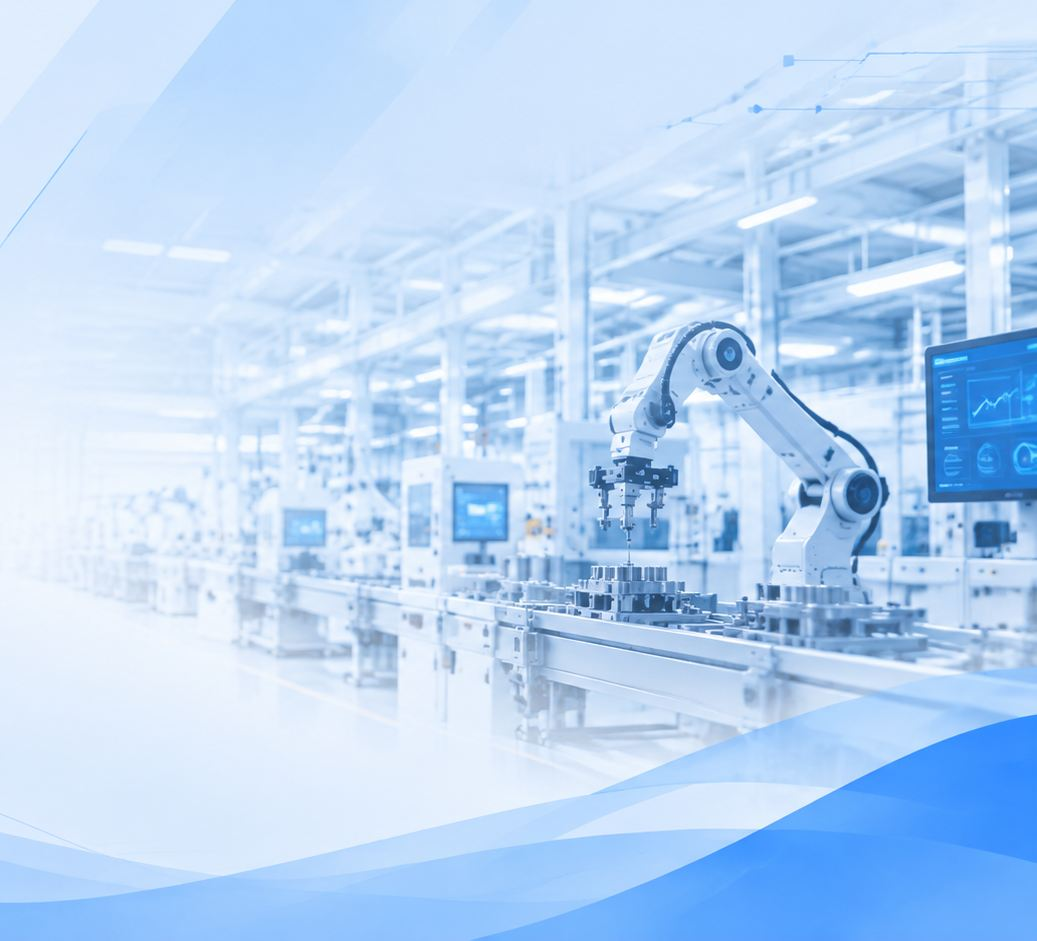
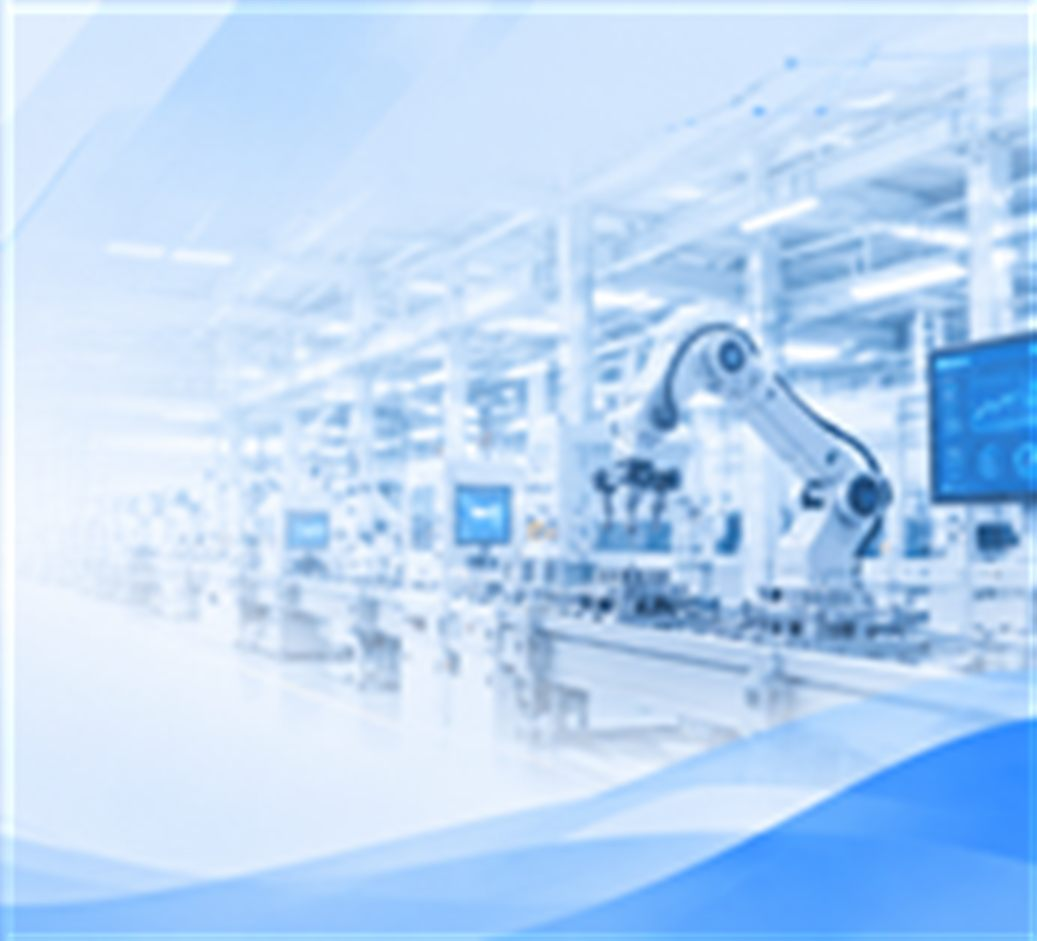
fix: restore page background — bake blur into asset instead of a negative-z pseudo layer
上一版把整页背景搞没了。原因不是遮罩或图片，是层叠写法错了。

## 根因：body::before + z-index:-1 被 body 自身背景盖掉

上一版把背景放在 `body::before`（position: fixed; z-index: -1），
同时 body 还有不透明的 `background-color: var(--board)`。

按 CSS 2.1 附录 E 的绘制顺序，根堆叠上下文内：
1. 根元素的背景
2. **负 z-index 的子堆叠上下文**（body::before 在这里）
3. 常规流内非定位块级元素的背景（**body 自己的 background-color 在这里**）

也就是说 body 的背景色画在 body::before **之后**，直接把它整层盖住 →
用户看到的就是"背景没了"。

## 修法

1. 去掉 `body::before` 整套写法，背景回到 `body` 的 `background-image`
   （这个写法之前已验证能正常显示），浅色薄纱 + 图片两层，`background-attachment: fixed`
2. 模糊不再依赖 CSS `filter`，改为**烘焙进图片**：
   生成素材时先缩到 1/6 再用 HighQualityBicubic 放大回来，
   等效高斯模糊；这样既保留了柔和氛围，又没有 filter/transform 带来的
   包含块与层叠副作用
3. 素材仍是裁掉左侧 38% 的版本（无 SmartMES 标识与标语），1037×941
   JPEG q82，64.5 KB（比上一版 78.9 KB 更小）
4. 移动端（≤820px）`background-attachment` 退回 `scroll`

## 验证

- 精确检查：`body::before` 选择器 0 处、`filter: blur` 声明 0 处
  （`backdrop-filter` 属顶栏毛玻璃，保留）
- body 最终规则确认为「薄纱渐变 + app-bg.jpg + fixed」
- styles.css 花括号平衡 1288/1288
- 资源核对 app-bg.jpg 1037×941 / 64.5 KB
- 六套断言 419 项全部通过，无回归
- docs/11 记录了这个层叠陷阱，避免以后又用负 z-index 伪元素做背景

## 仍未验证

- 实际观感需本地截图确认

diff --git a/smart-gateway/src/main/resources/static/styles.css b/smart-gateway/src/main/resources/static/styles.css
@@ -7137,22 +7137,17 @@ html {
   background: var(--board);
 }
 
-/* ---------- 页面整体背景：车间实景图（已裁掉左侧标识与标语） ----------
-   原图左侧带 SmartMES 标识和「让制造更智能 · 生产更高效」标语，
-   直接铺满会从页面标题、卡片间隙里透出可读文字，和真实 UI 文案打架。
-   处理方式：素材层面裁剪到只剩机械臂与车间（38% 之后），
-   样式层面再做 blur(4px) + 浅色薄纱，作为纯氛围底。 */
+/* ---------- 页面整体背景：车间实景图（已裁掉标识/标语，并烘焙了模糊） ----------
+   注意两点，都是踩过的坑：
+   1. 原图左侧带 SmartMES 标识与「让制造更智能 · 生产更高效」标语，必须裁掉，
+      否则会从页面标题和卡片间隙里透出可读文字，和真实 UI 文案叠成重影。
+   2. 不要用 body::before + z-index:-1 来做背景层：按 CSS 绘制顺序，
+      body 自身的不透明 background-color 排在负 z-index 子层之后，会把整层盖掉
+      （表现为"背景没了"）。所以直接放在 body 的 background-image 上。
+   模糊已经由脚本烘焙进 app-bg.jpg（缩到 1/6 再放大），CSS 不再需要 filter。 */
 
 body {
   background-color: var(--board);
-  background-image: none;
-}
-
-body::before {
-  position: fixed;
-  inset: 0;
-  z-index: -1;
-  content: "";
   background-image:
     linear-gradient(180deg,
       rgba(245, 247, 251, 0.46) 0%,
@@ -7162,17 +7157,13 @@ body::before {
   background-position: center, center;
   background-size: cover, cover;
   background-repeat: no-repeat, no-repeat;
-  filter: blur(4px);
-  /* 模糊会让边缘变透明露白，放大一点点盖住 */
-  transform: scale(1.05);
-  pointer-events: none;
+  background-attachment: fixed, fixed;
 }
 
 @media (max-width: 820px) {
-  /* 移动端 fixed + blur 合成开销大，改为随页面滚动的绝对定位并减小模糊半径 */
-  body::before {
-    position: absolute;
-    filter: blur(3px);
+  /* 移动端 fixed 背景滚动会卡顿，退回普通滚动 */
+  body {
+    background-attachment: scroll, scroll;
   }
 }
 

diff --git a/docs/11-前端工作台.md b/docs/11-前端工作台.md
@@ -58,8 +58,11 @@ KPI 卡片的四个图标底色沿用一组辅助色（蓝/绿/橙/紫），但*
 - 整页背景使用车间实景图 `static/assets/app-bg.jpg`（1037×941，已从原图裁掉左侧 38%）。
   原图左上角有 SmartMES 标识和「让制造更智能 · 生产更高效」标语，直接铺满会从页面标题、
   卡片间隙里透出可读文字、和真实 UI 文案打架，所以在**素材层面裁掉**这块；
-  样式层面再用 `body::before` 固定铺满 + `blur(4px)` + 0.46 → 0.74 浅色薄纱，只留机械轮廓与色块。
-  移动端（≤820px）改为绝对定位 + `blur(3px)`，避免 fixed + blur 的合成开销。
+  模糊也同样**烘焙进图片**（缩到 1/6 再放大），CSS 里不写 `filter`。
+  最终用 `body` 的 `background-image`（浅色薄纱 + 图片，`background-attachment: fixed`）。
+  移动端（≤820px）改回 `scroll`，避免 fixed 背景滚动卡顿。
+- 背景层**不能**用 `body::before` + `z-index: -1`：按 CSS 绘制顺序，`body` 自身的不透明
+  `background-color` 排在负 z-index 子层之后，会把整层盖掉（表现就是"背景没了"）。
 - 左侧固定导航承载工厂层级；主区域顶部是随工单横幅（RUN CARD，全宽视觉锚点）。
   横幅背景使用同一套视觉的 `static/assets/run-card.jpg`，并叠一层从 0.93 到 0.62 的深蓝渐变遮罩：
   图片本身偏浅，不压暗就压不住白色的工单号、工序节点与操作按钮。
